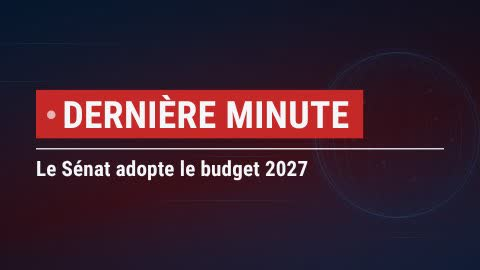
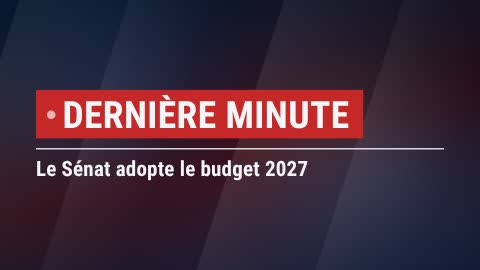
feat(habillage): le fond des écrans pleins, sans globe
Le globe filaire qui tournait derrière les écrans pleins faisait décor
fabriqué. Un plateau de journal n'a pas de globe : il a de la lumière et des
plans. Le fond est maintenant fait de grands pans de verre inclinés, qui
glissent à des vitesses différentes et accrochent la lumière par leur arête,
de deux nappes de lumière floues derrière, et d'un faisceau qui balaie l'image
une fois à l'ouverture. Les pans arrivent vite, se posent, puis dérivent à
peine : le texte reste ce qui bouge le plus.

Claude-Session: https://claude.ai/code/session_01LdohYMYLdzn78whXWPs6qn

diff --git a/remotion/src/overlays/paquet.jsx b/remotion/src/overlays/paquet.jsx
@@ -20,7 +20,6 @@
  */
 import React from 'react';
 import { useCurrentFrame, useVideoConfig, Img, staticFile } from 'remotion';
-import { WorldMap } from '../worldmap.jsx';
 import { COULEURS, VOILES, POLICE_HABILLAGE, PILES, LETTRAGE, varPolice } from '../identite.js';
 import { pickColors } from '../theme.js';
 import TexteJT from '../TexteJT.jsx';
@@ -553,27 +552,59 @@ export function Citation({ overlay, durationInFrames }) {
 /* ------------------------------------------------------------------ */
 
 /**
- * Le fond d'antenne : le bleu profond de la chaîne, des filets qui dérivent à
- * des vitesses différentes (la profondeur vient de là), le globe en retrait.
- * LE CONSTAT : les écrans pleins étaient presque vides — un petit texte dans
- * un coin d'un grand aplat. Ici le fond vit lentement, et le texte occupe
- * l'image.
+ * Le fond d'antenne.
+ *
+ * LE CONSTAT : les écrans pleins étaient presque vides, puis habités par un
+ * globe filaire qui tournait — l'image même du décor fabriqué. Un plateau de
+ * journal n'a pas de globe : il a de la LUMIÈRE et des PLANS. Le fond est donc
+ * fait de ce qu'on trouverait dans un studio :
+ *   - de grands pans de verre inclinés, qui glissent à des vitesses
+ *     différentes (c'est ce décalage qui donne la profondeur) et accrochent
+ *     la lumière par leur arête ;
+ *   - deux nappes de lumière, floues, qui se déplacent lentement derrière ;
+ *   - un faisceau qui balaie l'image une fois, à l'ouverture.
+ * À l'ouverture, les pans arrivent vite et se posent ; ensuite ils dérivent à
+ * peine. Le texte reste ce qui bouge le plus.
  */
 function FondAntenne({ p, frame, k, T, teinte, children }) {
-  const derive = frame / k;
-  const filets = [[0.16, 0.5, 0.5], [0.3, -0.32, 0.34], [0.58, 0.72, 0.28], [0.74, -0.44, 0.42], [0.88, 0.28, 0.3]];
+  const t = frame / k;
+  // L'élan de l'ouverture : les pans viennent de loin, puis dérivent.
+  const elan = 1 - poser(t / 26);
+  // [position de départ en %, largeur en %, vitesse de dérive, opacité, sens de l'élan]
+  const pans = [
+    [-8, 34, 0.035, 0.10, -1],
+    [22, 22, -0.055, 0.07, 1],
+    [48, 40, 0.025, 0.09, -1],
+    [78, 26, -0.04, 0.08, 1],
+  ];
+  const faisceau = (t - 6) / 34;
   return (
-    <Volet p={p} depuis="bas" style={{ position: 'absolute', inset: 0, overflow: 'hidden', background: `linear-gradient(165deg, ${T.profond} 0%, ${teinte || COULEURS.fondMilieu} 58%, ${T.fond} 135%)` }}>
-      <div style={{ position: 'absolute', right: -220, top: '50%', width: 1100, height: 1100, marginTop: -550, opacity: 0.32 }}>
-        <WorldMap rotateSpeed={0.12} opacity={1} color={T.accent} glow={T.fond} />
-      </div>
-      {filets.map(([y, vitesse, longueur], i) => (
-        <div key={i} style={{
-          position: 'absolute', top: `${y * 100}%`, height: 2, width: `${longueur * 100}%`,
-          left: `${(((i * 23 + derive * vitesse * 0.35) % 140) + 140) % 140 - 30}%`,
-          background: `linear-gradient(90deg, transparent, ${T.accent}, transparent)`, opacity: 0.22,
+    <Volet p={p} depuis="bas" style={{ position: 'absolute', inset: 0, overflow: 'hidden', background: `linear-gradient(165deg, ${T.profond} 0%, ${teinte || COULEURS.fondMilieu} 55%, ${T.fond} 140%)` }}>
+      {/* Les nappes de lumière, loin derrière. */}
+      {[[18, 30, 0.011, 0.5], [76, 68, 0.008, 0.36]].map(([x, y, v, op], i) => (
+        <div key={`n${i}`} style={{
+          position: 'absolute', width: 1300, height: 1300, borderRadius: '50%',
+          left: `calc(${(x + Math.sin(t * v + i * 2) * 9).toFixed(2)}% - 650px)`,
+          top: `calc(${(y + Math.cos(t * v * 1.3 + i) * 7).toFixed(2)}% - 650px)`,
+          background: `radial-gradient(circle, ${i ? T.accent : T.fond}, transparent 62%)`,
+          opacity: op * 0.5, filter: 'blur(40px)',
         }} />
       ))}
+      {/* Les pans de verre : un voile clair, et une arête qui accroche la lumière. */}
+      {pans.map(([x, largeur, vitesse, opacite, sens], i) => (
+        <div key={`p${i}`} style={{
+          position: 'absolute', top: '-20%', height: '140%', width: `${largeur}%`,
+          left: `${(x + t * vitesse + elan * sens * 46).toFixed(3)}%`,
+          transform: 'skewX(-18deg)',
+          background: `linear-gradient(90deg, ${T.papier}, transparent 85%)`,
+          opacity: opacite * (1 - elan * 0.6),
+          borderLeft: `2px solid ${T.accent}`,
+        }} />
+      ))}
+      {/* Le faisceau de l'ouverture. */}
+      {faisceau > 0 && faisceau < 1 && (
+        <div style={{ position: 'absolute', top: '-20%', height: '140%', width: '26%', left: `${(-30 + faisceau * 160).toFixed(2)}%`, transform: 'skewX(-18deg)', background: VOILES.reflet, opacity: 0.55 }} />
+      )}
       <div style={{ position: 'absolute', inset: 0, background: VOILES.bords }} />
       {children}
     </Volet>
